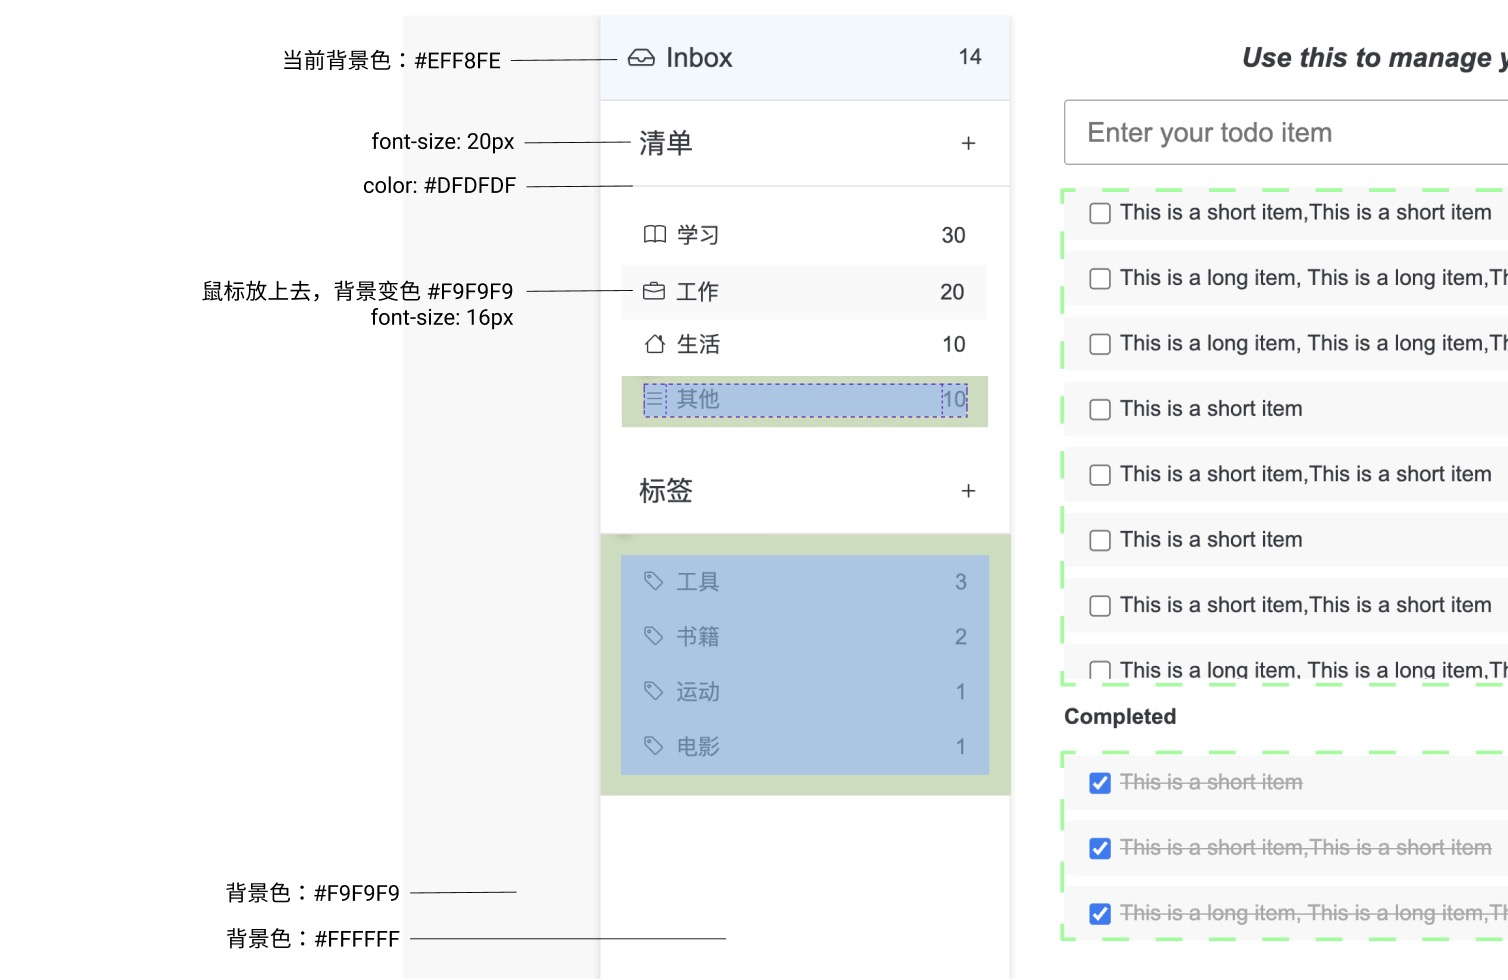
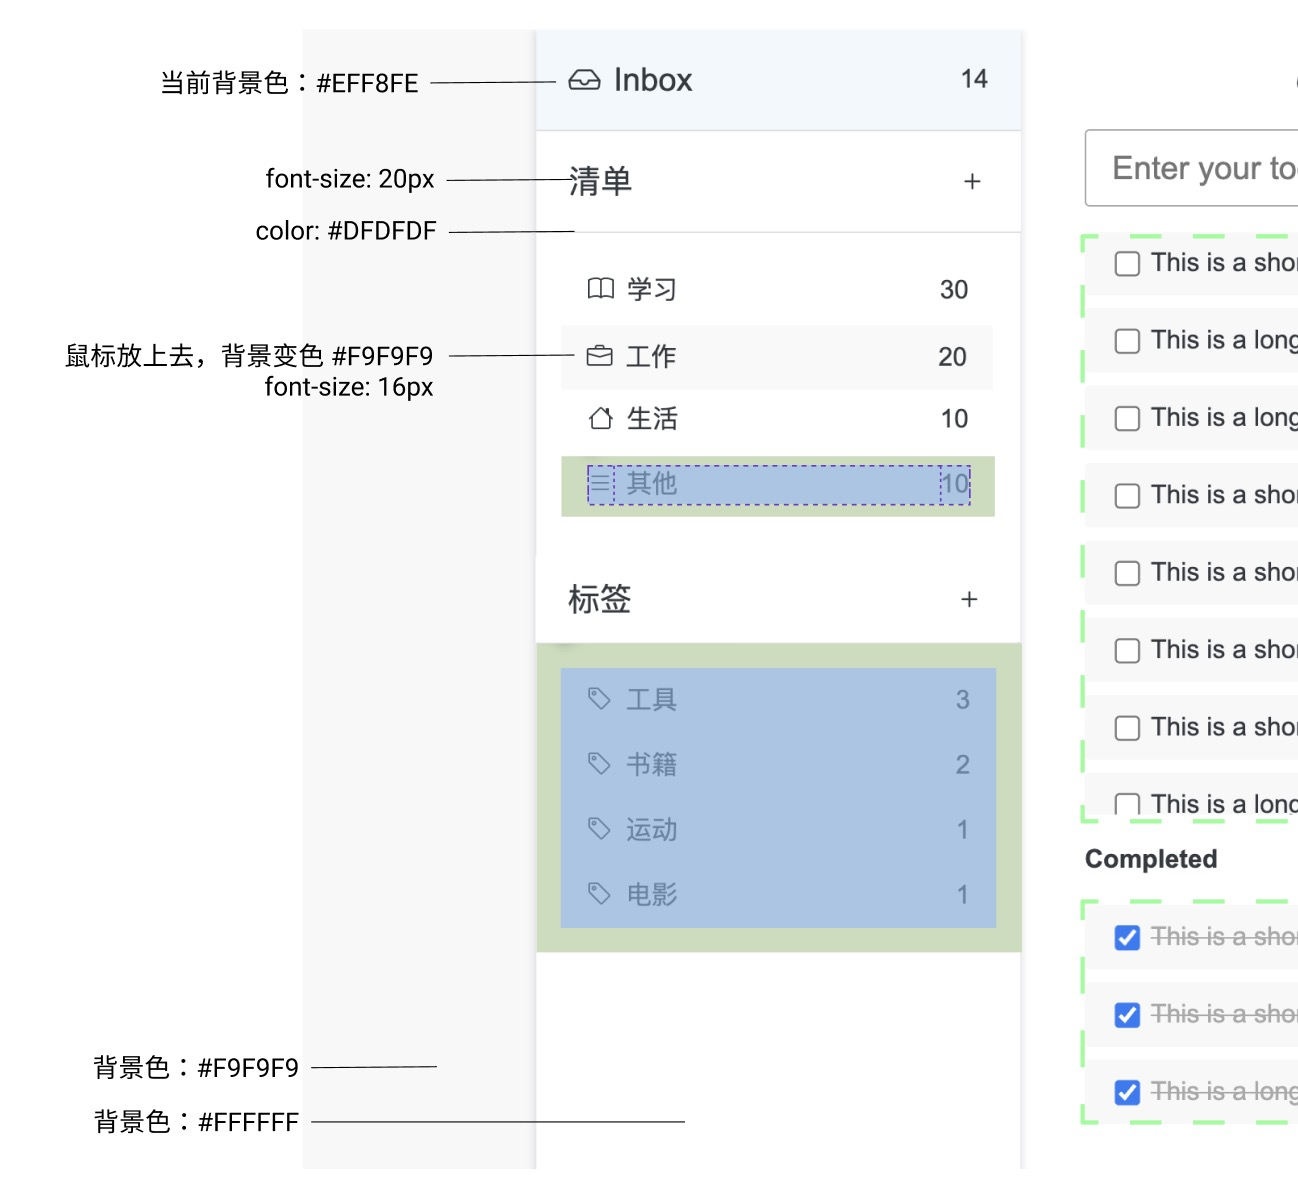
update base image and space details

diff --git a/cypress/integration/todos.test.js b/cypress/integration/todos.test.js
@@ -5,7 +5,7 @@ describe("Story 1: TODO list layout", () => {
 
   it("should match snapshot", () => {
     cy.matchImageSnapshot("todo-list-default", {
-      failureThreshold: 0.05,
+      failureThreshold: 0.03,
       failureThresholdType: "percent",
       customDiffConfig: { threshold: 0.1 },
     });
@@ -17,7 +17,7 @@ describe("Story 1: TODO list layout", () => {
       .invoke("show")
       .click();
     cy.matchImageSnapshot("todo-item-hover",  {
-      failureThreshold: 0.05,
+      failureThreshold: 0.03,
       failureThresholdType: "percent",
       customDiffConfig: { threshold: 0.1 },
     });

diff --git a/README.md b/README.md
@@ -10,11 +10,16 @@
 
 ![color-icon](document/color-icon.jpg)
 
-![overall](document/overall.jpg)
+- 默认字体Arial, Helvetica, sans-serif，默认字体大小16px，颜色：#343A40 ，行高1.5
+- 页面内容宽度1000px，高度为屏幕高度100%
+- 左侧边栏宽度为30%，右边宽度自适应
+- 内边距值：8px，16px，20px，40px
 
 ![aside](document/aside.jpg)
 
 ![content](document/content.jpg)
+
+![space](document/space-details.jpg)
 
 ## 技术提示
 
@@ -26,7 +31,9 @@
 
 ### Icon
 
-设计稿中使用的 Icon 为 [Bootstrap Icon](https://icons.getbootstrap.com/), 可以通过 Download 到本地或者 CDN 的方式使用，详细请参考 https://icons.getbootstrap.com/
+设计稿中使用的 Icon 为 [Bootstrap Icon](https://icons.getbootstrap.com/), 
+Icon font 可以通过 Download 到本地或者 CDN 的方式使用，但是 CDN 的方式访问可能会不稳定，建议使用 SVG 的方式，
+详细请参考 https://icons.getbootstrap.com/
 
 ### Sass
 
@@ -58,8 +65,14 @@ $ npm start
 $ npm start
 $ npm run test
 ```
-测试结果图像位置：_cypress/snapshots_
-如果测试失败，查看图像差异位置：_cypress/screenshots_
+本次 assignment 用了[cypress](https://www.cypress.io/) 以及 [cypress 图像对比](https://github.com/jaredpalmer/cypress-image-snapshot) 进行测试
+
+- 测试文件位置： cypress/integration/todos.test.js
+- 测试会打开 1200 * 600 的网页窗口测试页面完成度  
+- 测试会对比实际页面完成度与 base 图像之间的差异  
+- 测试 base 图像位置：cypress/snapshots/todos.test.js/*
+- 如果测试失败，查看图像差异位置：cypress/snapshots/todos.test.js/diff_output/*
+
 
 ## 提交要求
 - 请在 coach 建议的完成时间内提交，提交时请确保录屏也已完成；
